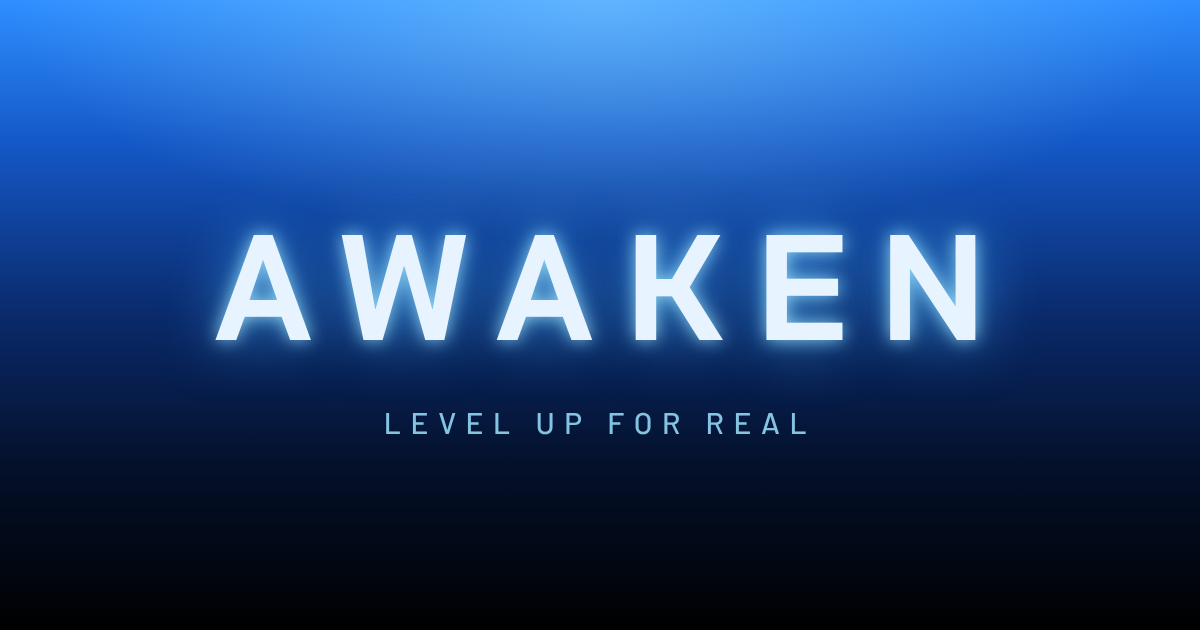
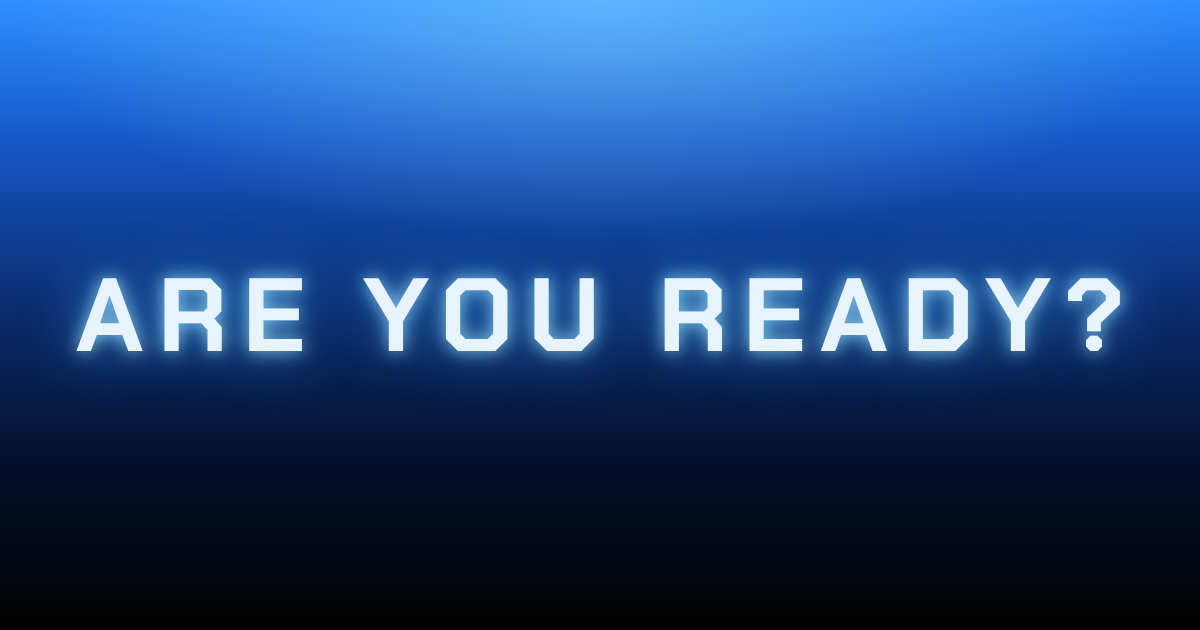
Link preview says "Are you ready?"
Claude-Session: https://claude.ai/code/session_01HB5qURPi2Wa94UMXiTmwjC

Changed region(s): [[0.0308, 0.3317, 0.9558, 0.573], [0.3083, 0.6333, 0.6783, 0.6937]]

diff --git a/awaken/index.html b/awaken/index.html
@@ -6,19 +6,18 @@
 <title>Awaken</title>
 <meta name="description" content="A workout system that levels you up: daily quests, penalty zones, gates and stats for real-world training.">
 <meta name="theme-color" content="#03060d">
-<!-- link previews (Messages, Discord, WhatsApp, Instagram, X): title and the blue-to-black card in share/ -->
+<!-- link previews (Messages, Discord, WhatsApp, Instagram, X): "Are you ready?" over the blue-to-black card in share/ -->
 <meta property="og:type" content="website">
 <meta property="og:site_name" content="Awaken">
-<meta property="og:title" content="Awaken">
-<meta property="og:description" content="The System has chosen you. Daily quests, penalty zones, gates and stats for real-world training.">
+<meta property="og:title" content="Are you ready?">
 <meta property="og:url" content="https://awaken.philip-realivasquez.workers.dev/">
-<meta property="og:image" content="https://awaken.philip-realivasquez.workers.dev/share/preview.png">
+<meta property="og:image" content="https://awaken.philip-realivasquez.workers.dev/share/preview.png?v=2">
 <meta property="og:image:width" content="1200">
 <meta property="og:image:height" content="630">
-<meta property="og:image:alt" content="AWAKEN in glowing letters over blue fading to black">
+<meta property="og:image:alt" content="ARE YOU READY? in glowing letters over blue fading to black">
 <meta name="twitter:card" content="summary_large_image">
-<meta name="twitter:title" content="Awaken">
-<meta name="twitter:image" content="https://awaken.philip-realivasquez.workers.dev/share/preview.png">
+<meta name="twitter:title" content="Are you ready?">
+<meta name="twitter:image" content="https://awaken.philip-realivasquez.workers.dev/share/preview.png?v=2">
 <meta name="mobile-web-app-capable" content="yes">
 <meta name="apple-mobile-web-app-capable" content="yes">
 <meta name="apple-mobile-web-app-status-bar-style" content="black-translucent">

diff --git a/awaken/share/card.html b/awaken/share/card.html
@@ -6,7 +6,7 @@
 html,body{margin:0;width:1200px;height:630px;overflow:hidden}
 body{background:linear-gradient(180deg,#2f8fff 0%,#1559c9 22%,#0a2a6b 50%,#04102a 74%,#000 100%);display:flex;flex-direction:column;align-items:center;justify-content:center;font-family:"Chakra Petch",sans-serif;position:relative}
 body::before{content:"";position:absolute;inset:0;background:radial-gradient(70% 55% at 50% 0%,rgba(155,227,255,.45),transparent 70%)}
-h1{position:relative;margin:0;font-size:150px;font-weight:700;letter-spacing:.22em;padding-left:.22em;color:#e7f4ff;text-shadow:0 0 18px rgba(155,227,255,.9),0 0 60px rgba(69,176,255,.8)}
+h1{position:relative;margin:0;font-size:104px;font-weight:700;letter-spacing:.14em;padding-left:.14em;white-space:nowrap;color:#e7f4ff;text-shadow:0 0 18px rgba(155,227,255,.9),0 0 60px rgba(69,176,255,.8)}
 p{position:relative;margin:18px 0 0;font:500 30px "Barlow",sans-serif;letter-spacing:.32em;text-transform:uppercase;color:#9be3ff;opacity:.85}
 </style></head>
-<body><h1>AWAKEN</h1><p>Level up for real</p></body></html>
+<body><h1>ARE YOU READY?</h1></body></html>

diff --git a/awaken/sw.js b/awaken/sw.js
@@ -1,5 +1,5 @@
 /* Awaken offline cache and Windows widget. Bump VERSION whenever the app files change. */
-const VERSION = 'awaken-v9';
+const VERSION = 'awaken-v10';
 const FONTS = 'awaken-fonts';
 const WIDGET_CACHE = 'awaken-widget'; // the page writes the widget's data snapshot here; it must survive updates
 const SHELL = [
